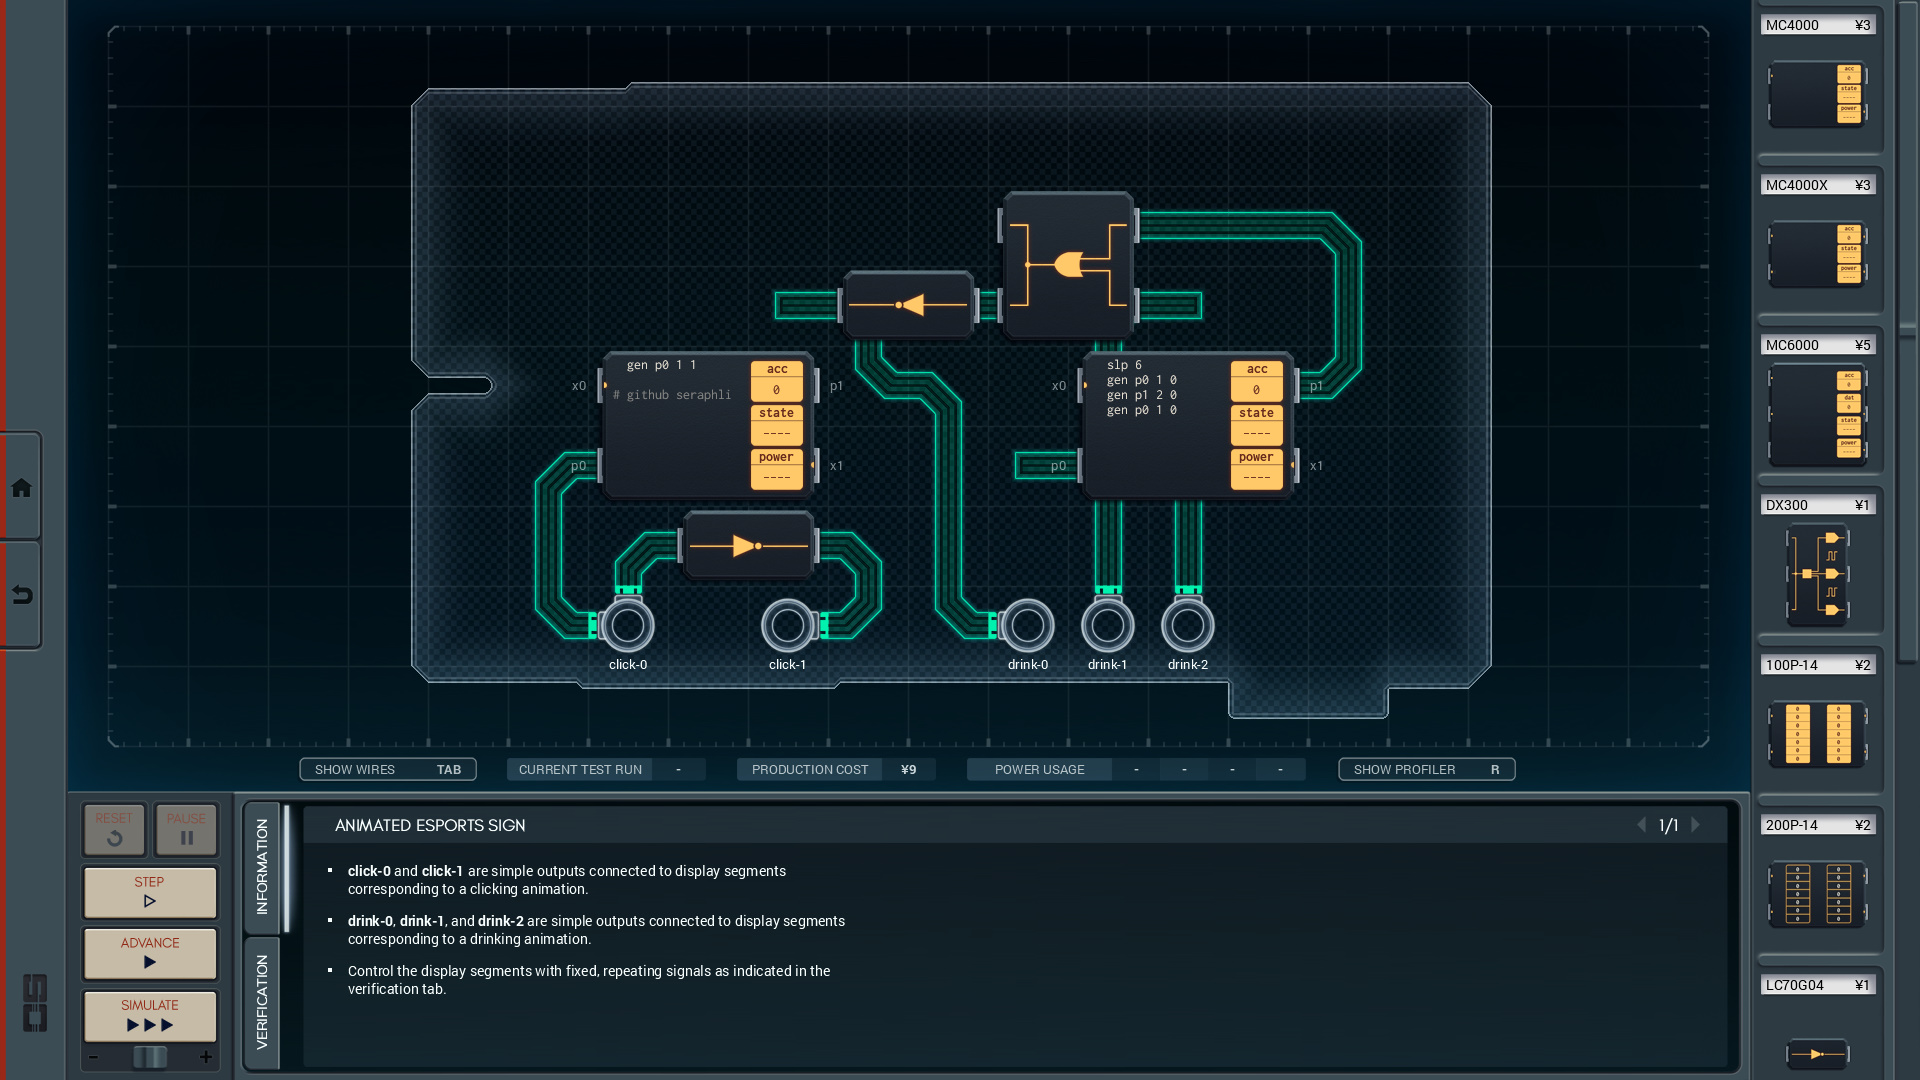
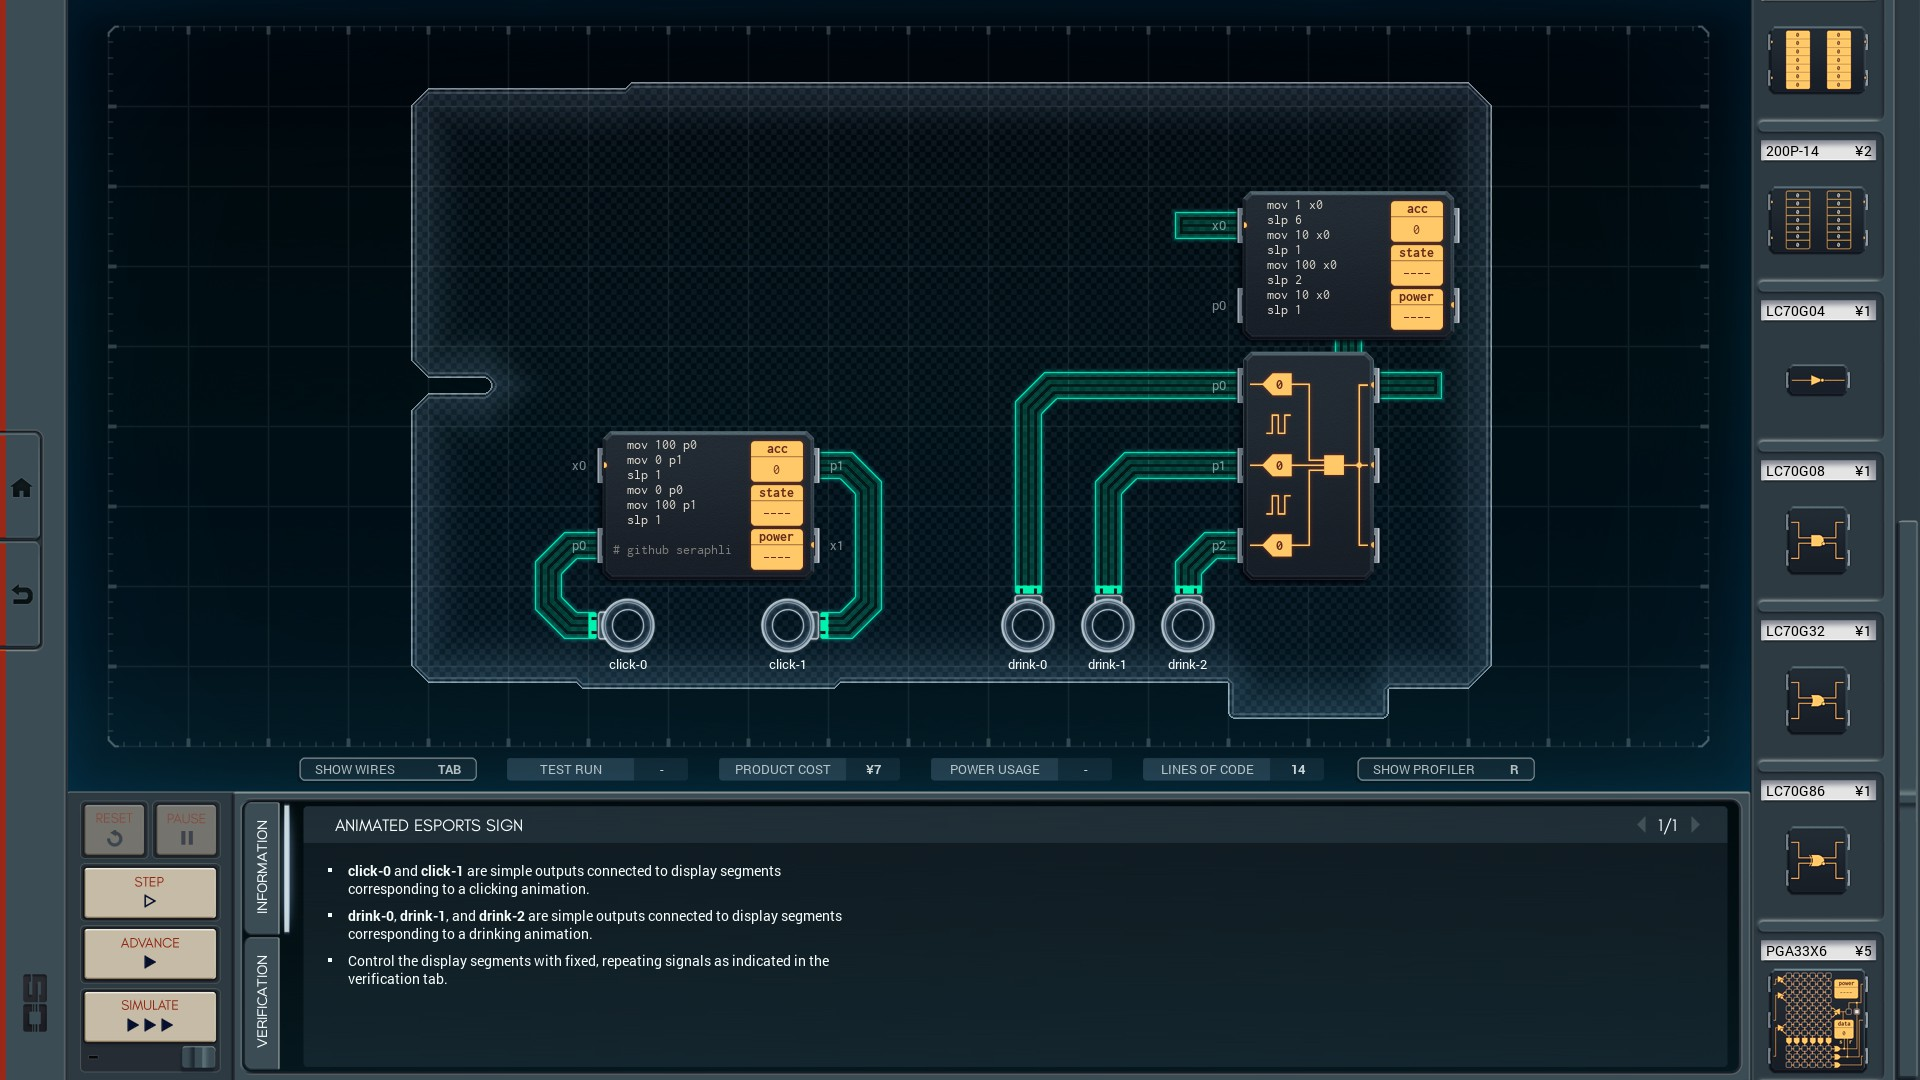
update lv 4

diff --git a/README.md b/README.md
@@ -11,21 +11,33 @@ Information thief is FORBIDDEN!
 
 2017.12.9 Updated.
 
-[Reference](http://steamcommunity.com/sharedfiles/filedetails/?id=780661614)
+[Reference][1]
 
 I didn't know you can add '@' in front of the command to make this command run only once. So this solution is quite efficient.
+
+Cost: 6 Power: 58 Lines: 3
 
 ![FAKE SURVERLLANCE CAMERA](1.jpg)
 
 ## CONTROL SIGNAL AMPLIFIER
 
+Cost: 3 Power: 240 Lines: 4
+
 ![CONTROL SIGNAL AMPLIFIER](2.jpg)
 
 ## DIAGNOSTIC PULSE GENERATOR
 
+Cost: 3 Power: 142 Lines: 3
+
 ![DIAGNOSTIC PULSE GENERATOR](3.jpg)
 
 ## ANIMATED ESPORTS SIGN
+
+2017.12.9 Updated.
+
+[Reference][1]
+
+Cost: 7 Power: 172 Lines: 14
 
 ![ANIMATED ESPORTS SIGN](4.jpg)
 ![ANIMATED ESPORTS SIGN](4B.jpg)
@@ -133,3 +145,5 @@ I didn't know you can add '@' in front of the command to make this command run o
 
 ![COLOR COORDINATING SHOES](28.jpg)
 ![COLOR COORDINATING SHOES](28B.jpg)
+
+[1]: http://steamcommunity.com/sharedfiles/filedetails/?id=780661614
